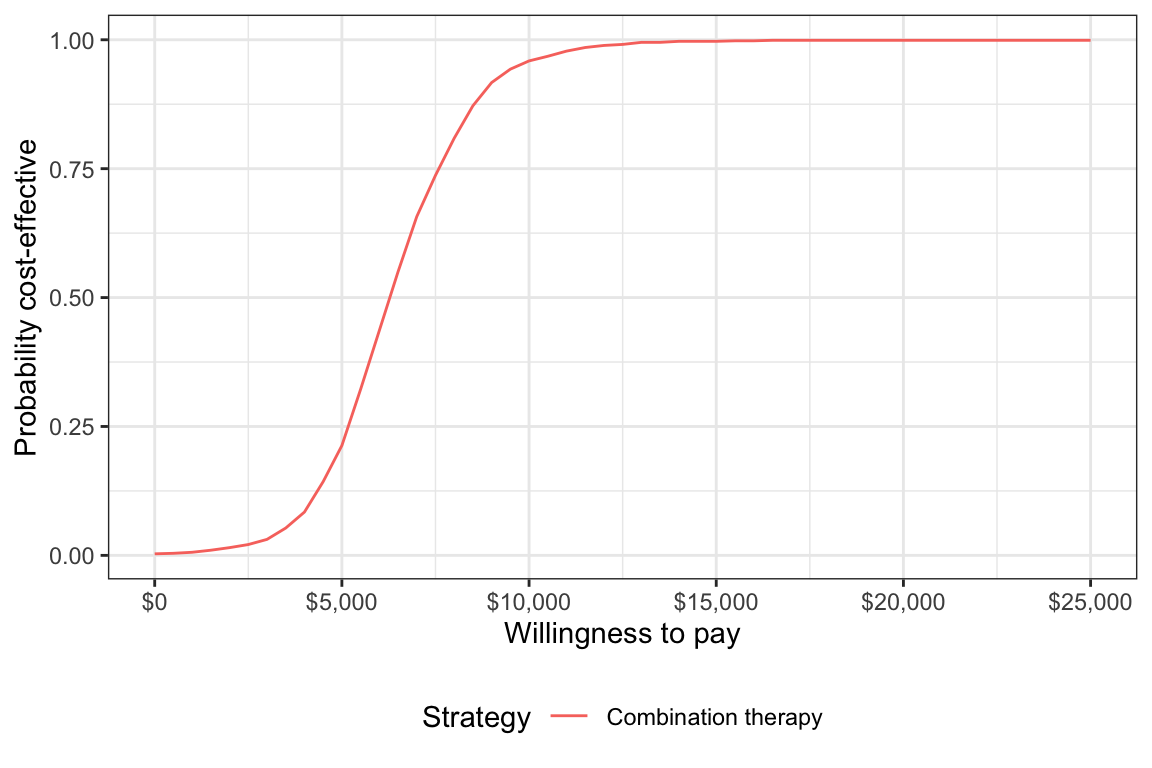
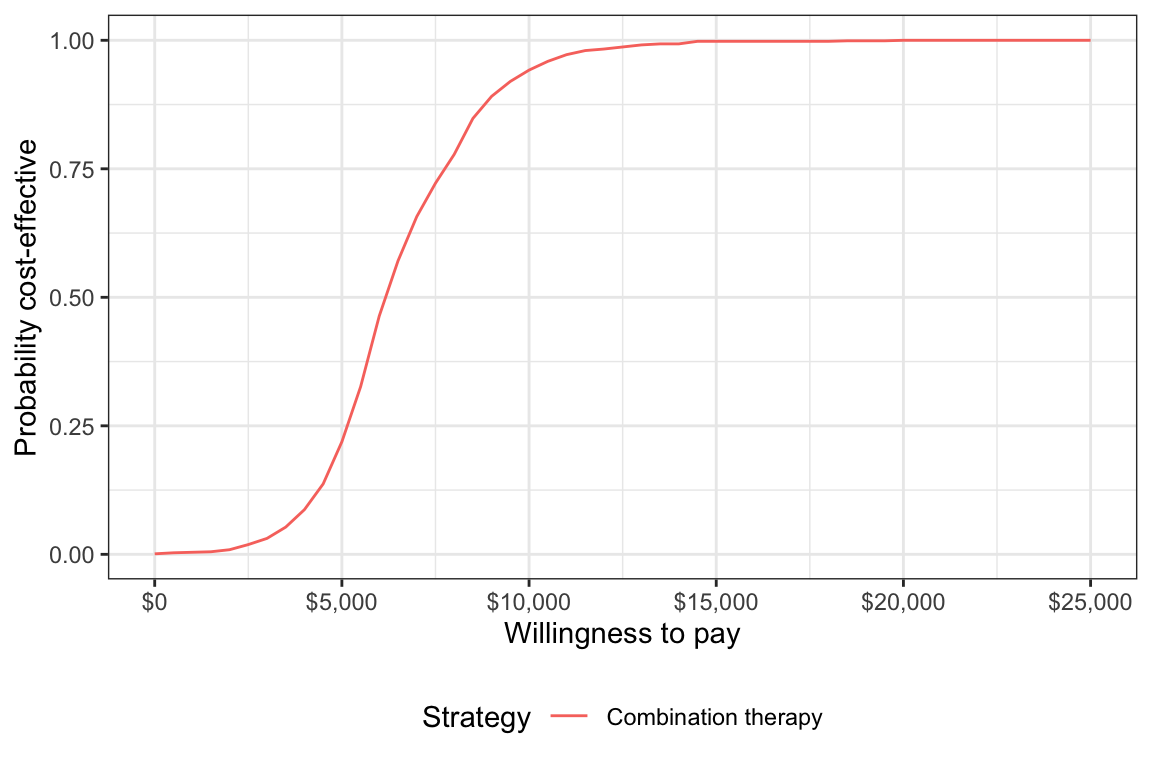
Rename data object input data in Markov cohort vignette for clarity

diff --git a/docs/dev/articles/markov-cohort.html b/docs/dev/articles/markov-cohort.html
@@ -212,8 +212,8 @@
 <a href="#transformed-parameters" class="anchor"></a>Transformed parameters</h2>
 <p>In most statistical models, the underlying parameters are “transformed” into more relevant parameters for prediction. For instance, if a multinomial logistic regression is used parameterize transition probabilities, the coefficients are used to predict the probabilities. While transition, cost, and utility models can be parameterized using supported statistical models with <code><a href="../reference/params.html">hesim::params</a></code> objects, they can also, in some cases, be parameterized using the transformed parameters themselves with <code><a href="../reference/tparams.html">hesim::tparams</a></code> objects.</p>
 <p>We will use the transformed parameter approach here by using <code><a href="../reference/define_tparams.html">define_tparams()</a></code> to define <code>tparams</code> objects as a function of the underlying parameters and input data (treatment strategies and patients). We generate the input data using <code><a href="../reference/expand.html">hesim::expand()</a></code>.</p>
-<div class="sourceCode" id="cb7"><html><body><pre class="r"><span class="no">data</span> <span class="kw">&lt;-</span> <span class="fu"><a href="../reference/expand.html">expand</a></span>(<span class="no">hesim_dat</span>, <span class="kw">by</span> <span class="kw">=</span> <span class="fu"><a href="https://rdrr.io/r/base/c.html">c</a></span>(<span class="st">"strategies"</span>, <span class="st">"patients"</span>))
-<span class="fu"><a href="https://rdrr.io/r/utils/head.html">head</a></span>(<span class="no">data</span>)</pre></body></html></div>
+<div class="sourceCode" id="cb7"><html><body><pre class="r"><span class="no">input_data</span> <span class="kw">&lt;-</span> <span class="fu"><a href="../reference/expand.html">expand</a></span>(<span class="no">hesim_dat</span>, <span class="kw">by</span> <span class="kw">=</span> <span class="fu"><a href="https://rdrr.io/r/base/c.html">c</a></span>(<span class="st">"strategies"</span>, <span class="st">"patients"</span>))
+<span class="fu"><a href="https://rdrr.io/r/utils/head.html">head</a></span>(<span class="no">input_data</span>)</pre></body></html></div>
 <pre><code>##    strategy_id patient_id       strategy_name
 ## 1:           1          1         Monotherapy
 ## 2:           2          1 Combination therapy</code></pre>
@@ -256,7 +256,7 @@
                         <span class="kw">rng_def</span> <span class="kw">=</span> <span class="no">rng_def</span>,
                         <span class="kw">params</span> <span class="kw">=</span> <span class="no">params</span>)</pre></body></html></div>
 <p>A economic model (of class <code>CohortDtstm</code>) can be created from the defined model and input data using the generic function <code><a href="../reference/create_CohortDtstm.html">create_CohortDtstm()</a></code>. The economic model is an <code>R6</code> object consisting of a transition model (<code>trans_model</code>) for simulating transition probabilities with <code>sim_stateprobs()</code>, a utility model for simulating quality-adjusted life-years with <code><a href="../reference/sim_ev.html">sim_qalys()</a></code>, and a set of cost models (for each cost category) for simulating costs with <code><a href="../reference/sim_ev.html">sim_costs()</a></code>.</p>
-<div class="sourceCode" id="cb11"><html><body><pre class="r"><span class="no">econmod</span> <span class="kw">&lt;-</span> <span class="fu"><a href="../reference/create_CohortDtstm.html">create_CohortDtstm</a></span>(<span class="no">mod_def</span>, <span class="no">data</span>)</pre></body></html></div>
+<div class="sourceCode" id="cb11"><html><body><pre class="r"><span class="no">econmod</span> <span class="kw">&lt;-</span> <span class="fu"><a href="../reference/create_CohortDtstm.html">create_CohortDtstm</a></span>(<span class="no">mod_def</span>, <span class="no">input_data</span>)</pre></body></html></div>
 </div>
 <div id="simulating-outcomes" class="section level2">
 <h2 class="hasAnchor">
@@ -302,15 +302,15 @@
 <span class="no">wtp</span> <span class="kw">&lt;-</span> <span class="fu"><a href="https://rdrr.io/r/base/seq.html">seq</a></span>(<span class="fl">0</span>, <span class="fl">25000</span>, <span class="fl">500</span>)
 <span class="no">icea_pw_out</span> <span class="kw">&lt;-</span> <span class="fu"><a href="../reference/icea.html">icea_pw</a></span>(<span class="no">ce_sim</span>, <span class="kw">comparator</span> <span class="kw">=</span> <span class="fl">1</span>, <span class="kw">dr_qalys</span> <span class="kw">=</span> <span class="fl">0</span>, <span class="kw">dr_costs</span> <span class="kw">=</span> <span class="fl">.06</span>,
                        <span class="kw">k</span> <span class="kw">=</span> <span class="no">wtp</span>)</pre></body></html></div>
-<p>The incremental cost-effectiveness ratio (ICER) estimated using means from the PSA is $6,236, which is very close to the estimate from the deterministic analysis from Chancellor et al. </p>
+<p>The incremental cost-effectiveness ratio (ICER) estimated using means from the PSA is $6,273, which is very close to the estimate from the deterministic analysis from Chancellor et al. </p>
 <div class="sourceCode" id="cb15"><html><body><pre class="r"><span class="fu"><a href="../reference/icer_tbl.html">icer_tbl</a></span>(<span class="no">icea_pw_out</span>)</pre></body></html></div>
 <pre><code>##                   1   2                        
-## Incremental QALYs "-" "0.93 (0.57, 1.22)"      
-## Incremental costs "-" "5,809 (2,788, 9,787)"   
-## Incremental NMB   "-" "40,769 (22,968, 55,371)"
-## ICER              "-" "6,236"                  
+## Incremental QALYs "-" "0.93 (0.54, 1.23)"      
+## Incremental costs "-" "5,810 (2,732, 9,518)"   
+## Incremental NMB   "-" "40,500 (21,331, 55,859)"
+## ICER              "-" "6,273"                  
 ## Conclusion        "-" "Cost-effective"</code></pre>
-<p>A cost-effectiveness acceptability curve shows that the probability that combination therapy is more cost-effective than monotherapy increases quickly with the willingness to pay (WTP) for a QALY. At $10,000, the probability is 0.959 and approaches 1 at slightly higher WTP values.</p>
+<p>A cost-effectiveness acceptability curve shows that the probability that combination therapy is more cost-effective than monotherapy increases quickly with the willingness to pay (WTP) for a QALY. At $10,000, the probability is 0.942 and approaches 1 at slightly higher WTP values.</p>
 <div class="sourceCode" id="cb17"><html><body><pre class="r"><span class="fu"><a href="https://ggplot2.tidyverse.org/reference/ggplot.html">ggplot</a></span>(<span class="no">icea_pw_out</span>$<span class="no">ceac</span>,
        <span class="fu"><a href="https://ggplot2.tidyverse.org/reference/aes.html">aes</a></span>(<span class="kw">x</span> <span class="kw">=</span> <span class="no">k</span>, <span class="kw">y</span> <span class="kw">=</span> <span class="no">prob</span>,
            <span class="kw">col</span> <span class="kw">=</span> <span class="fu"><a href="https://rdrr.io/r/base/factor.html">factor</a></span>(<span class="no">strategy_id</span>, <span class="kw">labels</span> <span class="kw">=</span> <span class="no">strategies</span>$<span class="no">strategy_name</span>[-<span class="fl">1</span>]))) +
